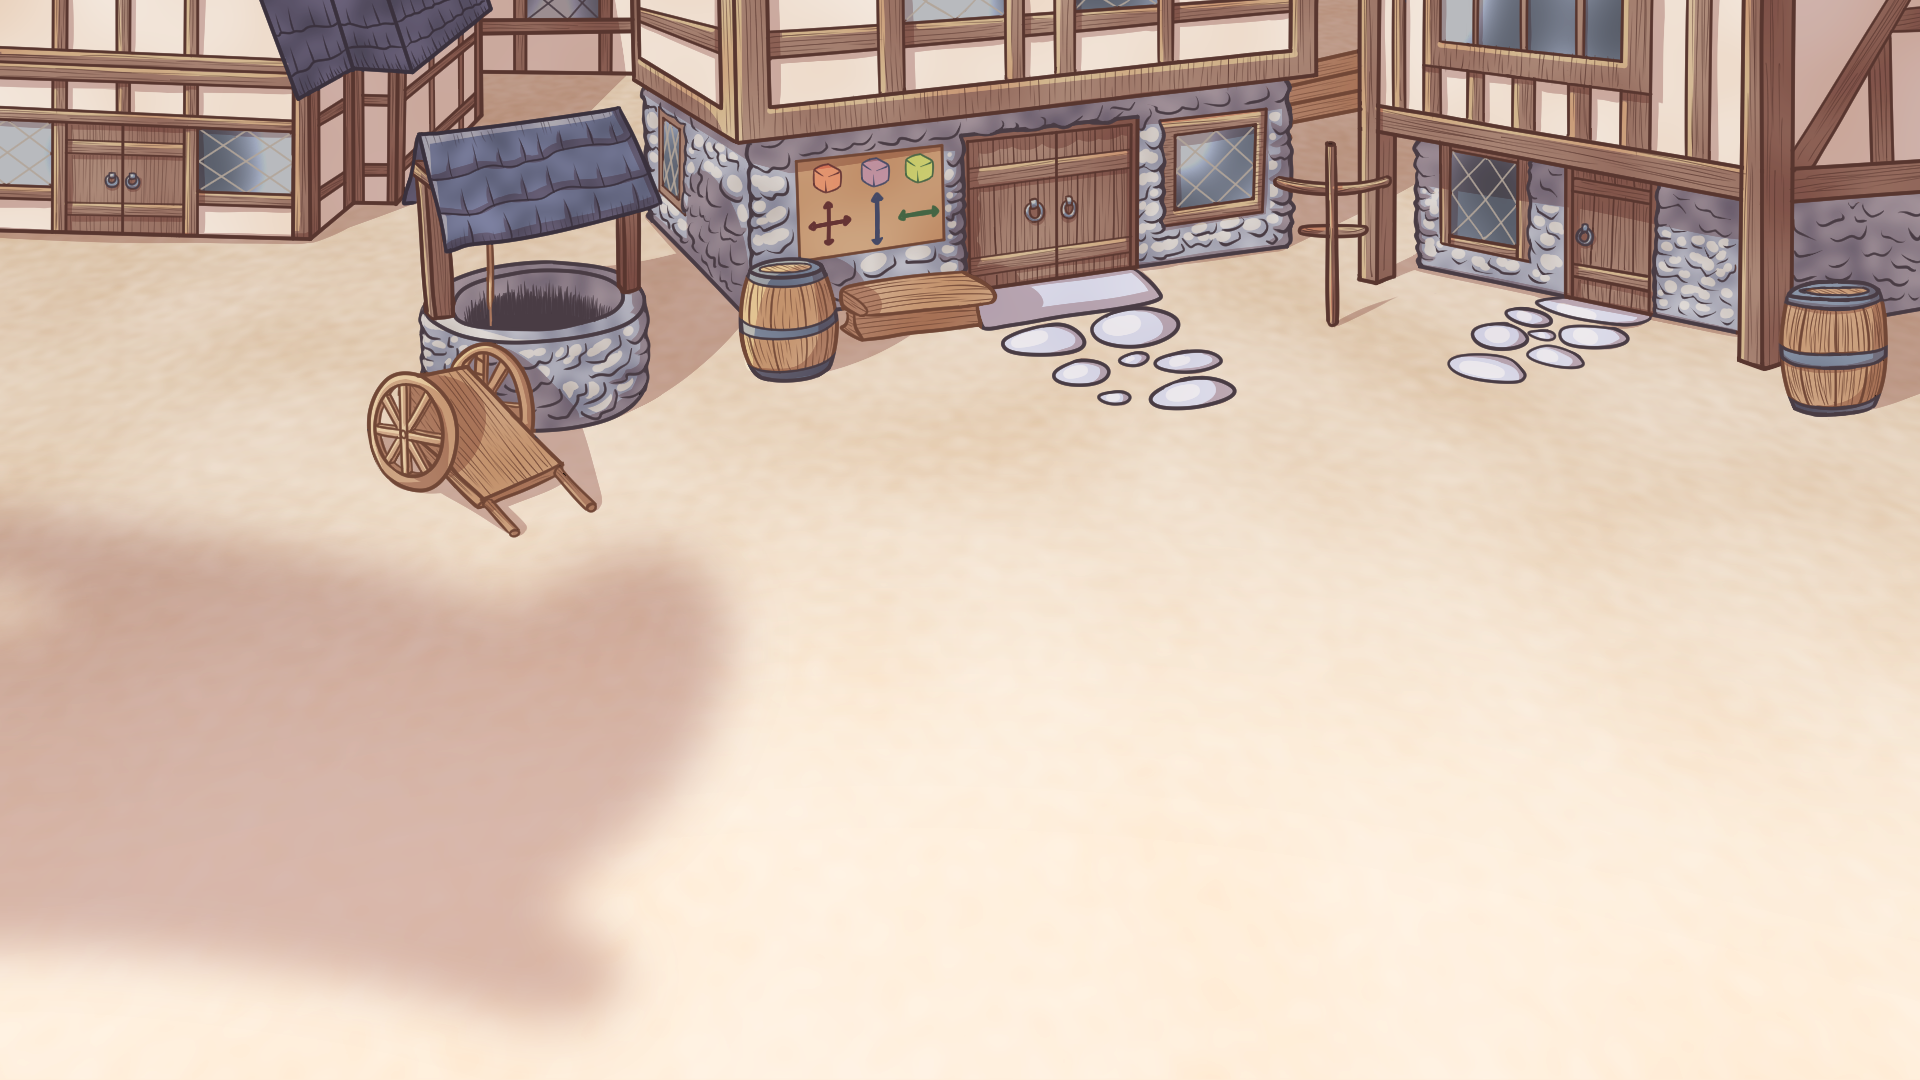
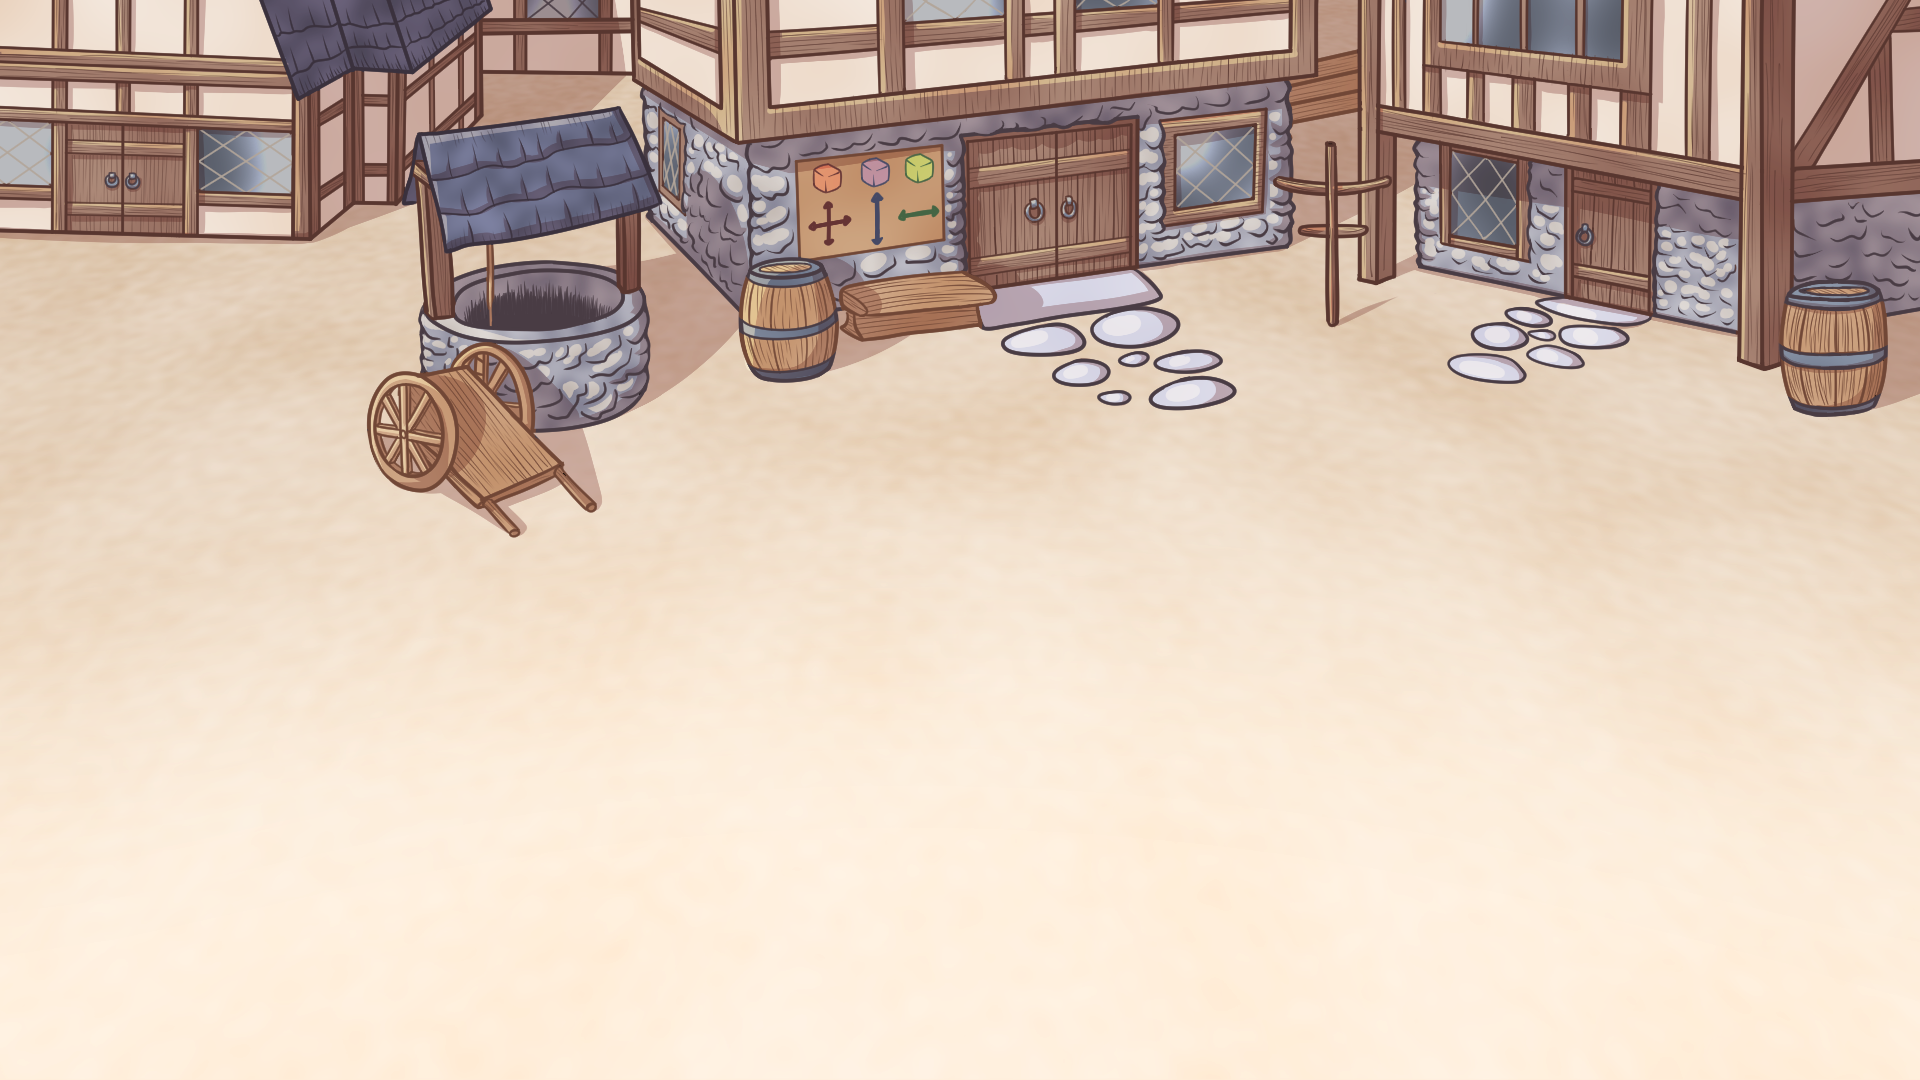
Hide dragon shadow on death

Changed region(s): [[0.0, 0.4583, 0.4062, 0.9472]]

diff --git a/src/scripts/components/Dragon.ts b/src/scripts/components/Dragon.ts
@@ -165,7 +165,7 @@ export class Dragon extends Phaser.GameObjects.Container {
 			width: {
 				from: this.healthBar.width,
 				to: Math.max( // Prevent it from spilling out the box from the left
-					(this.health / this.maxHealth) * (this.healthBox.displayWidth - 5),
+					(this.health / this.maxHealth) * (this.healthBox.displayWidth - 5) - 5,
 					this.healthBox.getBounds().left
 				)
 			}
@@ -175,6 +175,12 @@ export class Dragon extends Phaser.GameObjects.Container {
 
 		if (this.health <= 0) {
 			this.emit("death");
+			this.scene.tweens.add({
+				targets: this.scene.bg_shadow,
+				delay: 300,
+				duration: 700,
+				alpha: { from: 1, to: 0 }
+			})
 		}
 	}
 

diff --git a/src/scripts/scenes/GameScene.ts b/src/scripts/scenes/GameScene.ts
@@ -30,6 +30,7 @@ export class GameScene extends BaseScene {
 
 	// Background
 	// public background: Background;
+	public bg_shadow: Phaser.GameObjects.Image;
 	public grid: Grid;
 	public dices: Dice[];
 	public enemies: Enemy[];
@@ -81,6 +82,8 @@ export class GameScene extends BaseScene {
 		// this.background.setDepth(BACKGROUND_LAYER);
 		let bg = this.add.image(this.CX, this.CY, 'bg');
 		this.containToScreen(bg);
+		this.bg_shadow = this.add.image(this.CX, this.CY, 'bgs');
+		this.containToScreen(this.bg_shadow);
 		let fg = this.add.image(this.CX, this.CY, 'fg');
 		this.containToScreen(fg);
 		fg.setDepth(1000);

diff --git a/src/scripts/assets.ts b/src/scripts/assets.ts
@@ -24,6 +24,7 @@ interface Audio {
 
 // import background from "../assets/images/background.png";
 import bg from "../assets/images/BG.png";
+import bgs from "../assets/images/BGS.png";
 import fg from "../assets/images/FG.png";
 import concept from "../assets/images/dragon_concept2.png";
 
@@ -49,6 +50,7 @@ import cover_knights from "../assets/images/cover/knights.png";
 
 const images: Asset[] = [
 	{ key: "bg",	path: bg },
+	{ key: "bgs",	path: bgs },
 	{ key: "fg",	path: fg },
 	{ key: "concept",		path: concept },
 	{ key: "d6",			path: d6 },
